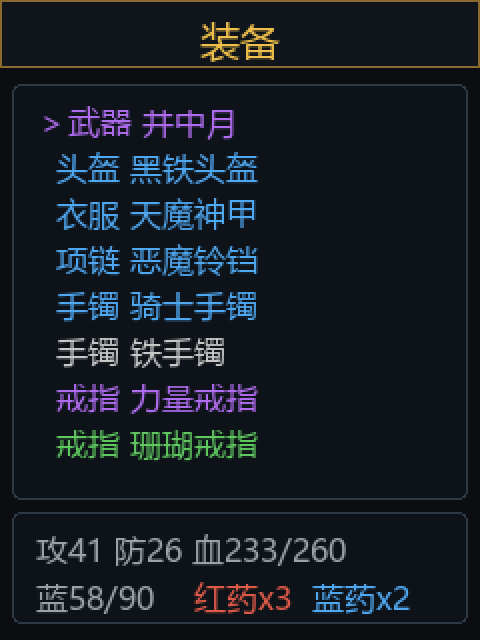
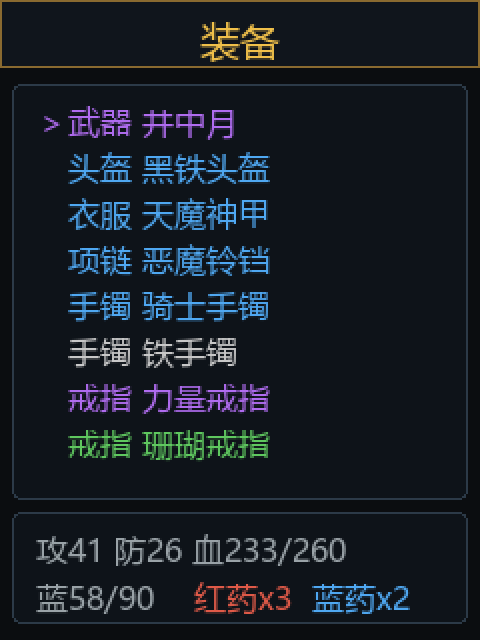
fix(mafa-chronicle): keep list columns aligned while the cursor moves
The cursor marks the active row with a full-width > (16 px in
mafa_font_16) but padded every unmarked row with two ASCII spaces
(8 px): each UP/DOWN press shifted the newly marked row right and the
previous row left, so the name column wobbled on every list page -
the skill page made it most visible. The main menu already used the
equal-width pair; this spreads it everywhere.

- Use the full-width space as the unmarked filler on all 32 cursor
  sites: 29 ternaries across the list pages, the boss modal's two
  prompt rows, and the class page's plain branch. Both glyphs are
  exactly 16 px, so rows keep one straight left edge.
- Document the pair in list_style, the helper every list page shares,
  so new pages pick it up.
- Sync the design mockups: 56 row fillers in render_design.py (the
  auto-sell picker's name-to-state separators stay two ASCII spaces,
  matching the device) and re-render the 11 affected PNGs.

Host tests: recolor, glyphs, mafa_model, and the 26-cell balance sim
all pass locally (zig cc + python); firmware build goes through CI.

Changed region(s): [[0.0938, 0.2188, 0.5625, 0.7188]]

diff --git a/main/mafa_app.c b/main/mafa_app.c
@@ -408,8 +408,8 @@ static void boss_modal_refresh(void) {
     char buf[160];
     snprintf(buf, sizeof buf, "#F0C04A 【Boss】%s 出现了!#\n%s\n%s",
              map_boss_name(s_app.player.map, s_app.player.floor),
-             s_app.cur_modal == 0 ? "#F0C04A ＞迎战#" : "  迎战",
-             s_app.cur_modal == 1 ? "#F0C04A ＞回避#" : "  回避");
+        s_app.cur_modal == 0 ? "#F0C04A ＞迎战#" : "　迎战",
+        s_app.cur_modal == 1 ? "#F0C04A ＞回避#" : "　回避");
     modal_show(buf);
 }
 
@@ -420,12 +420,12 @@ static void drop_modal_refresh(void) {
     for (int i = 0; i < MAFA_BACKPACK && n > 0 && n < (int)sizeof buf; ++i) {
         uint8_t id = s_app.player.inv_id[i];
         n += snprintf(buf + n, sizeof buf - n, "%s%d.%s\n",
-                      s_app.cur_modal == i ? "＞" : "  ", i + 1,
+                      s_app.cur_modal == i ? "＞" : "　", i + 1,
                       id == MAFA_INV_EMPTY ? "空" : MAFA_ITEMS[id].name);
     }
     if (n > 0 && n < (int)sizeof buf)
         snprintf(buf + n, sizeof buf - n, "%s丢弃",
-                 s_app.cur_modal == MAFA_BACKPACK ? "＞" : "  ");
+                 s_app.cur_modal == MAFA_BACKPACK ? "＞" : "　");
     modal_show(buf);
 }
 
@@ -572,14 +572,14 @@ static void refresh_menu(void) {
     char buf[96];
     if (s_app.confirm_new)
         snprintf(buf, sizeof buf, "覆盖现有存档?\n%s是\n%s否",
-                 s_app.cur_menu == 0 ? "＞" : "  ",
-                 s_app.cur_menu == 1 ? "＞" : "  ");
+                 s_app.cur_menu == 0 ? "＞" : "　",
+                 s_app.cur_menu == 1 ? "＞" : "　");
     else if (s_app.has_save)
         snprintf(buf, sizeof buf, "%s继续游戏\n%s新游戏",
-                 s_app.cur_menu == 0 ? "＞" : "  ",
-                 s_app.cur_menu == 1 ? "＞" : "  ");
+                 s_app.cur_menu == 0 ? "＞" : "　",
+                 s_app.cur_menu == 1 ? "＞" : "　");
     else
-        snprintf(buf, sizeof buf, "%s新游戏", s_app.cur_menu == 0 ? "＞" : "  ");
+        snprintf(buf, sizeof buf, "%s新游戏", s_app.cur_menu == 0 ? "＞" : "　");
     lv_label_set_text(s_app.view.items_label, buf);
 }
 
@@ -599,7 +599,7 @@ static void refresh_class(void) {
         if (i == s_app.cur_class)
             snprintf(row, sizeof row, "#F0C04A ＞%s#", ROWS[i]);
         else
-            snprintf(row, sizeof row, "  %s", ROWS[i]);
+            snprintf(row, sizeof row, "　%s", ROWS[i]);
         strncat(buf, row, sizeof buf - strlen(buf) - 1);
         if (i < MAFA_CLS_COUNT - 1)
             strncat(buf, "\n", sizeof buf - strlen(buf) - 1);
@@ -622,7 +622,7 @@ static void refresh_status(void) {
     int n = 0;
     for (int i = 0; i < MAFA_EQ_SLOTS; ++i) {
         uint8_t id = s_app.player.equipped[i];
-        const char *mark = s_app.cur_status == i ? "＞" : "  ";
+        const char *mark = s_app.cur_status == i ? "＞" : "　";
         if (id == MAFA_INV_EMPTY)
             n += snprintf(buf + n, sizeof buf - n, "#9AA3A8 %s%s 空#\n",
                           mark, SLOT_NAME[i]);
@@ -657,7 +657,7 @@ static void refresh_skills(void) {
     int n = 0;
     for (int i = 0; i < MAFA_SKILLS_PER_CLASS; ++i) {
         const mafa_skill_t *sk = &MAFA_SKILLS[s_app.player.cls][i];
-        const char *mark = s_app.cur_skill == i ? "＞" : "  ";
+        const char *mark = s_app.cur_skill == i ? "＞" : "　";
         char state[40];
         size_t m = 0;
         if (sk->kind == MAFA_SK_AOE)
@@ -701,7 +701,7 @@ static void refresh_backpack(void) {
     buf[0] = '\0';
     for (int i = 0; i < MAFA_BACKPACK; ++i) {
         uint8_t id = s_app.player.inv_id[i];
-        const char *mark = !s_app.packsub && s_app.cur_pack == i ? "＞" : "  ";
+        const char *mark = !s_app.packsub && s_app.cur_pack == i ? "＞" : "　";
         char row[64];
         if (id == MAFA_INV_EMPTY)
             snprintf(row, sizeof row, "#9AA3A8 %s%d.空#", mark, i + 1);
@@ -719,8 +719,8 @@ static void refresh_backpack(void) {
     uint8_t id = s_app.player.inv_id[s_app.cur_pack];
     if (s_app.packsub) {
         snprintf(det, sizeof det, "%s装备\n%s卖出",
-                 s_app.cur_packsub == 0 ? "＞" : "  ",
-                 s_app.cur_packsub == 1 ? "＞" : "  ");
+                 s_app.cur_packsub == 0 ? "＞" : "　",
+                 s_app.cur_packsub == 1 ? "＞" : "　");
     } else if (id == MAFA_INV_EMPTY) {
         snprintf(det, sizeof det, "金币 %u", (unsigned)s_app.player.gold);
     } else {
@@ -741,12 +741,12 @@ static void refresh_store(void) {
     char buf[384];
     const mafa_skill_t *sk = MAFA_SKILLS[s_app.player.cls];
     int n = snprintf(buf, sizeof buf, "%s红药 50金 x%u\n%s蓝药 40金 x%u\n",
-                     s_app.cur_store == 0 ? "＞" : "  ",
+                     s_app.cur_store == 0 ? "＞" : "　",
                      (unsigned)s_app.player.pot_red,
-                     s_app.cur_store == 1 ? "＞" : "  ",
+                     s_app.cur_store == 1 ? "＞" : "　",
                      (unsigned)s_app.player.pot_blue);
     for (int i = 0; i < 3; ++i) {
-        const char *mark = s_app.cur_store == i + 2 ? "＞" : "  ";
+        const char *mark = s_app.cur_store == i + 2 ? "＞" : "　";
         uint8_t idx = (uint8_t)(i + 1);
         if (mafa_skill_known(&s_app.player, idx))
             n += snprintf(buf + n, sizeof buf - n,
@@ -778,12 +778,12 @@ static void refresh_maps(void) {
         char row[64];
         for (int f = 0; f < deepest; ++f) {
             snprintf(row, sizeof row, "%s%d层 Boss:%s",
-                     s_app.cur_floor == f ? "＞" : "  ", f + 1,
+                     s_app.cur_floor == f ? "＞" : "　", f + 1,
                      map_boss_name(map, (uint8_t)(f + 1)));
             strncat(buf, row, sizeof buf - strlen(buf) - 1);
             strncat(buf, "\n", sizeof buf - strlen(buf) - 1);
         }
-        snprintf(row, sizeof row, "%s返回", s_app.cur_floor == deepest ? "＞" : "  ");
+        snprintf(row, sizeof row, "%s返回", s_app.cur_floor == deepest ? "＞" : "　");
         strncat(buf, row, sizeof buf - strlen(buf) - 1);
         lv_label_set_text(s_app.view.items_label, buf);
         char det[96];
@@ -798,10 +798,10 @@ static void refresh_maps(void) {
         /* Design 10: locked rows are dim. */
         if (unlocked)
             snprintf(row, sizeof row, "%s%d.%s",
-                     s_app.cur_maps == i ? "＞" : "  ", i, MAFA_MAP_NAMES[i]);
+                     s_app.cur_maps == i ? "＞" : "　", i, MAFA_MAP_NAMES[i]);
         else
             snprintf(row, sizeof row, "#9AA3A8 %s%d.%s 锁定#",
-                     s_app.cur_maps == i ? "＞" : "  ", i, MAFA_MAP_NAMES[i]);
+                     s_app.cur_maps == i ? "＞" : "　", i, MAFA_MAP_NAMES[i]);
         strncat(buf, row, sizeof buf - strlen(buf) - 1);
         if (i < MAFA_MAP_COUNT - 1)
             strncat(buf, "\n", sizeof buf - strlen(buf) - 1);
@@ -843,11 +843,11 @@ static void refresh_settings(void) {
                       "  ", (unsigned)s_app.player.pot_mp_pct);
         for (int i = 0; i < 4; ++i)
             n += snprintf(buf + n, sizeof buf - n, "%s%s%s  %s#\n",
-                          s_app.cur_pick == i ? "＞" : "  ",
+                          s_app.cur_pick == i ? "＞" : "　",
                           SELL_PICK_COLOR[i], SELL_PICK_NAME[i],
                           (s_app.player.auto_sell >> i) & 1 ? "开" : "关");
         n += snprintf(buf + n, sizeof buf - n, "%s#F0C04A 完成#\n",
-                      s_app.cur_pick == 4 ? "＞" : "  ");
+                      s_app.cur_pick == 4 ? "＞" : "　");
         n += snprintf(buf + n, sizeof buf - n, "#9AA3A8 %s自动Boss:%s#\n",
                       "  ", s_app.player.auto_boss ? "开" : "关");
         snprintf(buf + n, sizeof buf - n, "#9AA3A8 电量 %s#", bat_s);
@@ -869,7 +869,7 @@ static void refresh_settings(void) {
         n += snprintf(buf + n, sizeof buf - n, "#9AA3A8 %s自动喝药:%s#\n",
                       "  ", s_app.player.auto_potion ? "开" : "关");
         n += snprintf(buf + n, sizeof buf - n, "%s红药线:",
-                      s_app.cur_set == 1 ? "＞" : "  ");
+                      s_app.cur_set == 1 ? "＞" : "　");
         if (s_app.cur_set == 1)
             n += snprintf(buf + n, sizeof buf - n, "#F0C04A <%u%%>#\n",
                           (unsigned)s_app.player.pot_hp_pct);
@@ -877,7 +877,7 @@ static void refresh_settings(void) {
             n += snprintf(buf + n, sizeof buf - n, "#9AA3A8 %s%u%%#\n",
                           "  ", (unsigned)s_app.player.pot_hp_pct);
         n += snprintf(buf + n, sizeof buf - n, "%s蓝药线:",
-                      s_app.cur_set == 2 ? "＞" : "  ");
+                      s_app.cur_set == 2 ? "＞" : "　");
         if (s_app.cur_set == 2)
             n += snprintf(buf + n, sizeof buf - n, "#F0C04A <%u%%>#\n",
                           (unsigned)s_app.player.pot_mp_pct);
@@ -890,18 +890,18 @@ static void refresh_settings(void) {
                       "  ", s_app.player.auto_boss ? "开" : "关");
     } else {
         n += snprintf(buf + n, sizeof buf - n, "%s自动喝药:%s\n",
-                      s_app.cur_set == 0 ? "＞" : "  ",
+                      s_app.cur_set == 0 ? "＞" : "　",
                       s_app.player.auto_potion ? "开" : "关");
         n += snprintf(buf + n, sizeof buf - n, "%s红药线:%u%%\n",
-                      s_app.cur_set == 1 ? "＞" : "  ",
+                      s_app.cur_set == 1 ? "＞" : "　",
                       (unsigned)s_app.player.pot_hp_pct);
         n += snprintf(buf + n, sizeof buf - n, "%s蓝药线:%u%%\n",
-                      s_app.cur_set == 2 ? "＞" : "  ",
+                      s_app.cur_set == 2 ? "＞" : "　",
                       (unsigned)s_app.player.pot_mp_pct);
         n += snprintf(buf + n, sizeof buf - n, "%s自动卖:%s\n",
-                      s_app.cur_set == 3 ? "＞" : "  ", sold);
+                      s_app.cur_set == 3 ? "＞" : "　", sold);
         n += snprintf(buf + n, sizeof buf - n, "%s自动Boss:%s\n",
-                      s_app.cur_set == 4 ? "＞" : "  ",
+                      s_app.cur_set == 4 ? "＞" : "　",
                       s_app.player.auto_boss ? "开" : "关");
     }
     snprintf(buf + n, sizeof buf - n, "\n#9AA3A8 电量 %s#", bat_s);

diff --git a/docs/design/mafa/render_design.py b/docs/design/mafa/render_design.py
@@ -136,7 +136,7 @@ panel(d, 30, 44, 180, 96, PANEL_BG, GOLD_EDGE, radius=8, bw=2)
 text_c(d, 120, 64, "玛法战纪", F20, GOLD)
 text_c(d, 120, 100, "「文字传奇」", F16, DIM)
 text(d, (80, 180), "＞继续游戏", F16, MAIN)
-text(d, (80, 205), "  新游戏", F16, MAIN)
+text(d, (80, 205), "　新游戏", F16, MAIN)
 save(img, "01-menu")
 
 # ---- 2. class (1.76 seven-skill blurbs) -------------------------------------
@@ -211,7 +211,7 @@ d = ImageDraw.Draw(img)
 panel(d, 8, 85, 224, 150, (0x10, 0x18, 0x20), GOLD_EDGE, radius=6)
 text_c(d, 120, 100, "【Boss】沃玛教主 出现了!", F16, GOLD)
 text(d, (60, 140), "＞迎战", F16, GOLD)
-text(d, (60, 170), "  回避", F16, MAIN)
+text(d, (60, 170), "　回避", F16, MAIN)
 save(img, "06-modal-boss")
 
 # ---- 7. gear page: 8-slot paper doll + stats + potions (1.76 plan) -----------
@@ -227,13 +227,13 @@ title_band(d, "装备")
 panel(d, 6, 42, 228, 208, PANEL_BG, PANEL_EDGE)
 gear = [
     ("＞武器 井中月", "purple"),
-    ("  头盔 黑铁头盔", "blue"),
-    ("  衣服 天魔神甲", "blue"),
-    ("  项链 恶魔铃铛", "blue"),
-    ("  手镯 骑士手镯", "blue"),
-    ("  手镯 铁手镯", "white"),
-    ("  戒指 力量戒指", "purple"),
-    ("  戒指 珊瑚戒指", "green"),
+    ("　头盔 黑铁头盔", "blue"),
+    ("　衣服 天魔神甲", "blue"),
+    ("　项链 恶魔铃铛", "blue"),
+    ("　手镯 骑士手镯", "blue"),
+    ("　手镯 铁手镯", "white"),
+    ("　戒指 力量戒指", "purple"),
+    ("　戒指 珊瑚戒指", "green"),
 ]
 y = 50
 for s, q in gear:
@@ -261,12 +261,12 @@ title_band(d, "技能")
 panel(d, 6, 42, 228, 190, PANEL_BG, PANEL_EDGE)
 skills = [
     ("＞基本剑术  常驻", DIM),
-    ("  攻杀剑术  常驻", DIM),
-    ("  刺杀剑术  开", MAIN),
-    ("  半月弯刀  群攻 关", MAIN),
-    ("  野蛮冲撞  精英/Boss", MAIN),
-    ("  烈火剑法  Lv35", DIM),
-    ("  逐日剑法  Lv38", DIM),
+    ("　攻杀剑术  常驻", DIM),
+    ("　刺杀剑术  开", MAIN),
+    ("　半月弯刀  群攻 关", MAIN),
+    ("　野蛮冲撞  精英/Boss", MAIN),
+    ("　烈火剑法  Lv35", DIM),
+    ("　逐日剑法  Lv38", DIM),
 ]
 y = 52
 for s, c in skills:
@@ -285,9 +285,9 @@ save(img, "17-skills")
 img, d = new_page()
 title_band(d, "背包")
 panel(d, 6, 42, 228, 208, PANEL_BG, PANEL_EDGE)
-items = [("＞1.炼狱 x1", "purple"), ("  2.骷髅头盔 x1", "white"),
-         ("  3.恶魔铃铛 x1", "blue"), ("  4.空", DIM), ("  5.空", DIM),
-         ("  6.空", DIM), ("  7.空", DIM), ("  8.空", DIM)]
+items = [("＞1.炼狱 x1", "purple"), ("　2.骷髅头盔 x1", "white"),
+         ("　3.恶魔铃铛 x1", "blue"), ("　4.空", DIM), ("　5.空", DIM),
+         ("　6.空", DIM), ("　7.空", DIM), ("　8.空", DIM)]
 y = 50
 for s, q in items:
     color = q if isinstance(q, tuple) else QUAL.get(q, MAIN)
@@ -309,10 +309,10 @@ title_band(d, "商店")
 panel(d, 6, 42, 228, 270, PANEL_BG, PANEL_EDGE)
 store = [
     ("＞红药 50金 x3", MAIN),
-    ("  蓝药 40金 x2", MAIN),
-    ("  攻杀剑术 300金 已学", DIM),
-    ("  刺杀剑术 600金 已学", DIM),
-    ("  半月弯刀 800金 Lv28", DIM),
+    ("　蓝药 40金 x2", MAIN),
+    ("　攻杀剑术 300金 已学", DIM),
+    ("　刺杀剑术 600金 已学", DIM),
+    ("　半月弯刀 800金 Lv28", DIM),
     ("", DIM),
     ("金币 2210", GOLD),
 ]
@@ -326,9 +326,9 @@ save(img, "09-store")
 img, d = new_page()
 title_band(d, "地图")
 panel(d, 6, 42, 228, 208, PANEL_BG, PANEL_EDGE)
-maps = [("  0.安全区", MAIN), ("  1.比奇省", MAIN), ("  2.兽人古墓", MAIN),
-        ("  3.石墓", MAIN), ("  4.沃玛寺庙", MAIN), ("＞5.死亡山谷", GOLD),
-        ("  6.祖玛寺庙 锁定", DIM), ("  7.赤月峡谷 锁定", DIM)]
+maps = [("　0.安全区", MAIN), ("　1.比奇省", MAIN), ("　2.兽人古墓", MAIN),
+        ("　3.石墓", MAIN), ("　4.沃玛寺庙", MAIN), ("＞5.死亡山谷", GOLD),
+        ("　6.祖玛寺庙 锁定", DIM), ("　7.赤月峡谷 锁定", DIM)]
 y = 50
 for s, c in maps:
     text(d, (18, y), s, F16, c)
@@ -346,10 +346,10 @@ save(img, "10-maps")
 img, d = new_page()
 title_band(d, "地图")
 panel(d, 6, 42, 228, 208, PANEL_BG, PANEL_EDGE)
-floors = [("  1层 Boss:祖玛卫士", MAIN), ("  2层 Boss:祖玛弓箭手", MAIN),
-          ("  3层 Boss:祖玛卫士", MAIN), ("＞4层 Boss:祖玛雕像", GOLD),
-          ("  5层 Boss:祖玛卫士", MAIN), ("  6层 Boss:祖玛雕像", MAIN),
-          ("  7层 Boss:祖玛教主", MAIN), ("  返回", MAIN)]
+floors = [("　1层 Boss:祖玛卫士", MAIN), ("　2层 Boss:祖玛弓箭手", MAIN),
+          ("　3层 Boss:祖玛卫士", MAIN), ("＞4层 Boss:祖玛雕像", GOLD),
+          ("　5层 Boss:祖玛卫士", MAIN), ("　6层 Boss:祖玛雕像", MAIN),
+          ("　7层 Boss:祖玛教主", MAIN), ("　返回", MAIN)]
 y = 50
 for s, c in floors:
     text(d, (18, y), s, F16, c)
@@ -388,10 +388,10 @@ title_band(d, "设置")
 panel(d, 6, 42, 228, 270, PANEL_BG, PANEL_EDGE)
 sets = [
     ("＞自动喝药:开", MAIN),
-    ("  红药线:50%", MAIN),
-    ("  蓝药线:30%", MAIN),
-    ("  自动卖:白", MAIN),
-    ("  自动Boss:开", MAIN),
+    ("　红药线:50%", MAIN),
+    ("　蓝药线:30%", MAIN),
+    ("　自动卖:白", MAIN),
+    ("　自动Boss:开", MAIN),
 ]
 for i, (s, c) in enumerate(sets):
     text(d, (18, 52 + i * (LH16 + 6)), s, F16, c)
@@ -406,11 +406,11 @@ img, d = new_page()
 title_band(d, "设置")
 panel(d, 6, 42, 228, 270, PANEL_BG, PANEL_EDGE)
 edit = [
-    ("  自动喝药:开", DIM),
+    ("　自动喝药:开", DIM),
     ("＞红药线:", MAIN),
-    ("  蓝药线:30%", DIM),
-    ("  自动卖白:开", DIM),
-    ("  自动Boss:开", DIM),
+    ("　蓝药线:30%", DIM),
+    ("　自动卖白:开", DIM),
+    ("　自动Boss:开", DIM),
 ]
 y = 52
 for s, c in edit:
@@ -428,25 +428,25 @@ save(img, "14-settings-edit")
 img, d = new_page()
 title_band(d, "设置")
 panel(d, 6, 42, 228, 270, PANEL_BG, PANEL_EDGE)
-dim_top = ["  自动喝药:开", "  红药线:50%", "  蓝药线:30%"]
+dim_top = ["　自动喝药:开", "　红药线:50%", "　蓝药线:30%"]
 y = 52
 for s in dim_top:
     text(d, (18, y), s, F16, DIM)
     y += LH16 + 5
 picker = [
     ("＞", "白", QUAL["white"], "  开", MAIN),
-    ("  ", "绿", QUAL["green"], "  开", MAIN),
-    ("  ", "蓝", QUAL["blue"], "  关", DIM),
-    ("  ", "紫", QUAL["purple"], "  关", DIM),
+    ("　", "绿", QUAL["green"], "  开", MAIN),
+    ("　", "蓝", QUAL["blue"], "  关", DIM),
+    ("　", "紫", QUAL["purple"], "  关", DIM),
 ]
 for mark, name, qc, state, sc in picker:
     text(d, (18, y), mark, F16, MAIN)
     text(d, (18 + d.textlength(mark, font=F16), y), name, F16, qc)
     text(d, (18 + d.textlength(mark + name, font=F16), y), state, F16, sc)
     y += LH16 + 5
-text(d, (18, y), "  完成", F16, GOLD)
+text(d, (18, y), "　完成", F16, GOLD)
 y += LH16 + 5
-text(d, (18, y), "  自动Boss:开", F16, DIM)
+text(d, (18, y), "　自动Boss:开", F16, DIM)
 y += LH16 + 5
 text(d, (18, y), "电量 96%", F16, DIM)
 save(img, "15-settings-sell")

diff --git a/main/mafa_view.c b/main/mafa_view.c
@@ -96,6 +96,10 @@ static lv_obj_t *bar(lv_obj_t *parent, int x, int y, int w, int h,
 static void list_style(lv_obj_t *label) {
     lv_label_set_recolor(label, true);
     lv_obj_set_style_text_line_space(label, 6, 0);
+    /* Cursor rows pair ＞ with 　 (full-width space) as the unmarked
+     * filler — both exactly 16 px in mafa_font_16, so the name column
+     * stays put while the cursor moves; two ASCII spaces are 8 px and
+     * made every row shift sideways on UP/DOWN. */
 }
 
 /* Main page chrome: header band, enemy strip, framed log, action bar. */
